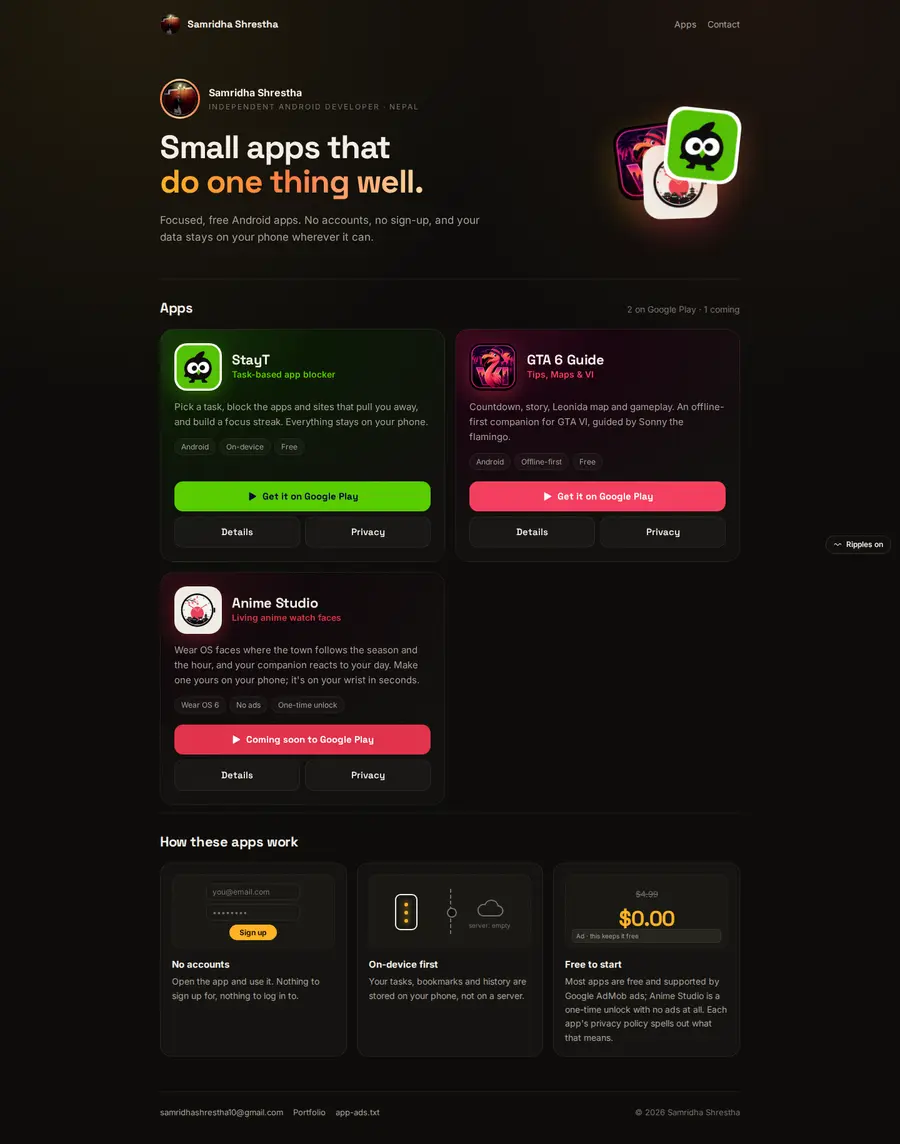
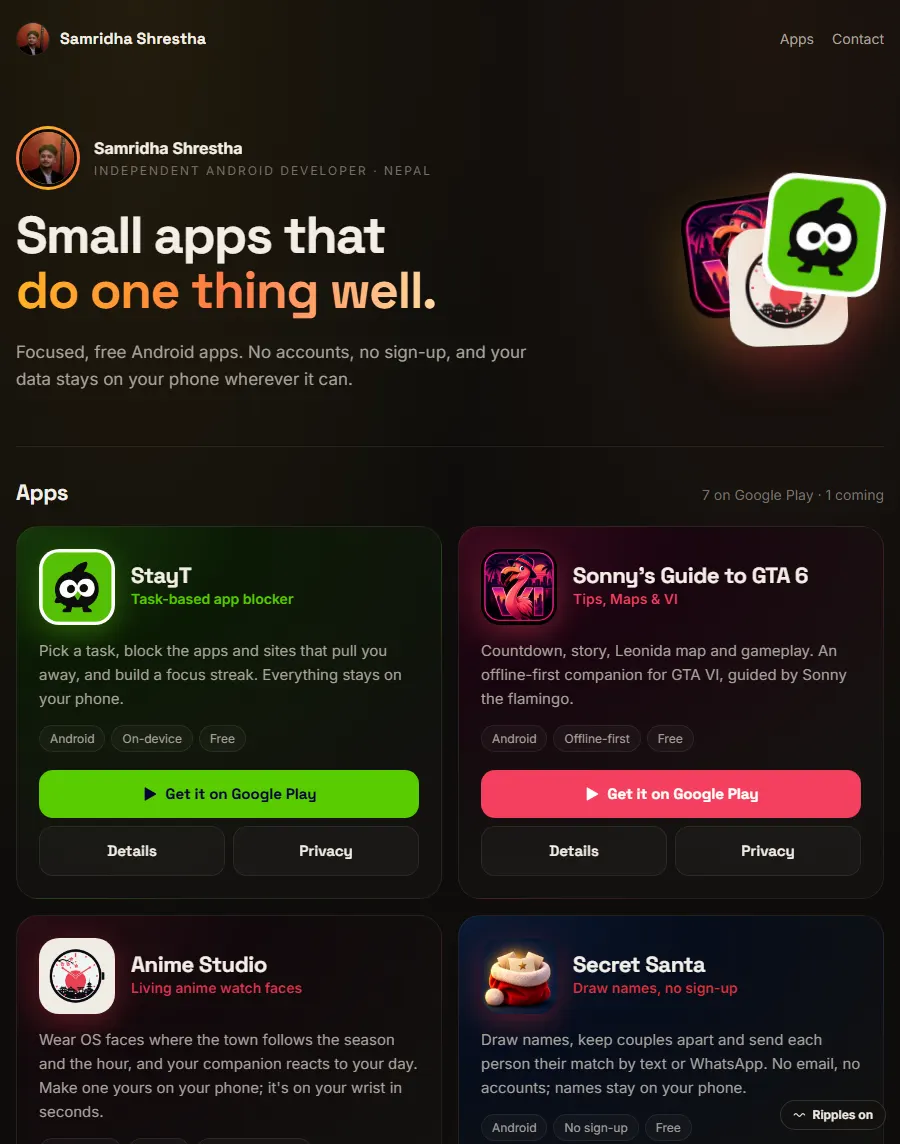
Projects: add Secret Santa, Potluck, Habit Tracker, Tide Chart and Word Search
Seven apps now on Google Play. New full-page thumbnails, refreshed hub
and Anime Studio shots, updated counts.

diff --git a/projects.html b/projects.html
@@ -72,9 +72,9 @@
 
     <section class="wrap" style="padding:0 0 2rem">
       <div class="numbers" data-reveal>
-        <div><b data-count="15">15</b><span>projects here</span></div>
+        <div><b data-count="20">20</b><span>projects here</span></div>
         <div><b data-count="96.97" data-decimals="2">96.97</b><span>best model accuracy, %</span></div>
-        <div><b data-count="7">7</b><span>sites and apps live</span></div>
+        <div><b data-count="11">11</b><span>sites and apps live</span></div>
         <div><b data-count="4">4</b><span>years of building, 2023–2026</span></div>
       </div>
     </section>
@@ -112,8 +112,8 @@
           <article>
             <span class="label">Android apps · 2026</span>
             <h3>apps.samridhashrestha.com.np</h3>
-            <p>Small Android apps that do one thing well. StayT, GTA 6 Guide and Anime Studio, a Wear OS watch face, are on Google Play. No accounts, data stays on the phone.</p>
-            <div class="metrics"><div><b>3</b><span>on Google Play</span></div></div>
+            <p>Small Android apps that do one thing well. Seven are on Google Play: StayT, GTA 6 Guide, Anime Studio (a Wear OS watch face), Secret Santa, Potluck Planner, Habit Tracker and Tide Chart. Big Letter Word Search is next. No accounts, data stays on the phone.</p>
+            <div class="metrics"><div><b>7</b><span>on Google Play</span></div></div>
             <a class="text-link arrow" href="https://apps.samridhashrestha.com.np" target="_blank" rel="noopener">See the apps</a>
           </article>
         </div>
@@ -151,7 +151,7 @@
           <div class="mobile-copy">
             <span class="label" style="margin:0">Android apps · 2026</span>
             <h3>apps.samridhashrestha.com.np</h3>
-            <p>Small Android apps that do one thing well. StayT, GTA 6 Guide and Anime Studio are on Google Play.</p>
+            <p>Small Android apps that do one thing well. Seven apps on Google Play, from StayT to Tide Chart, with Word Search next.</p>
             <a class="text-link arrow" href="https://apps.samridhashrestha.com.np" target="_blank" rel="noopener">See the apps</a>
           </div>
         </div>
@@ -176,11 +176,16 @@
         <li data-cat="app"><a class="proj-card panel" href="https://apps.samridhashrestha.com.np/stayt/" target="_blank" rel="noopener"><div class="proj-thumb scroll" style="--dur:4s"><img src="images/full-stayt.webp" alt="" loading="lazy" decoding="async"></div><div class="proj-body"><span class="proj-kind">Android · 2026</span><h3>StayT</h3><p>A task-based app blocker for staying focused. On Google Play.</p><span class="proj-foot"><span class="num">07</span><span class="go">Details ↗</span></span></div></a></li>
         <li data-cat="app"><a class="proj-card panel" href="https://apps.samridhashrestha.com.np/gta6guide/" target="_blank" rel="noopener"><div class="proj-thumb scroll" style="--dur:4s"><img src="images/full-gta6guide.webp" alt="" loading="lazy" decoding="async"></div><div class="proj-body"><span class="proj-kind">Android · 2026</span><h3>GTA 6 Guide</h3><p>An offline-first companion for GTA VI: countdown, story, Leonida map and gameplay. On Google Play.</p><span class="proj-foot"><span class="num">08</span><span class="go">Details ↗</span></span></div></a></li>
         <li data-cat="app"><a class="proj-card panel" href="https://apps.samridhashrestha.com.np/animestudio/" target="_blank" rel="noopener"><div class="proj-thumb scroll" style="--dur:6s"><img src="images/full-animestudio.webp" alt="" loading="lazy" decoding="async"></div><div class="proj-body"><span class="proj-kind">Wear OS · 2026</span><h3>Anime Studio</h3><p>Living anime watch faces: the town follows the season and the hour. On Google Play.</p><span class="proj-foot"><span class="num">09</span><span class="go">Details ↗</span></span></div></a></li>
-        <li data-cat="web"><a class="proj-card panel" href="https://nitride27.github.io/cargo-website/" target="_blank" rel="noopener"><div class="proj-thumb scroll" style="--dur:8s"><img src="images/full-cargo.webp" alt="" loading="lazy" decoding="async"></div><div class="proj-body"><span class="proj-kind">Web · Next.js · 2026</span><h3>CargoFlow</h3><p>Logistics marketing site on Next.js 15, Tailwind v4 and GSAP ScrollTrigger.</p><span class="proj-foot"><span class="num">10</span><span class="go">Live site ↗</span></span></div></a><a class="proj-code" href="https://github.com/Nitride27/cargo-website" target="_blank" rel="noopener">Code ↗</a></li>
-        <li data-cat="web"><a class="proj-card panel" href="https://nitride27.github.io/beautyinstitute-website/" target="_blank" rel="noopener"><div class="proj-thumb scroll" style="--dur:7s"><img src="images/full-eclat.webp" alt="" loading="lazy" decoding="async"></div><div class="proj-body"><span class="proj-kind">Web · Next.js · 2026</span><h3>Éclat Beauty Institute</h3><p>Marketing and enrolment site on Next.js 15, Tailwind, GSAP and Framer Motion.</p><span class="proj-foot"><span class="num">11</span><span class="go">Live site ↗</span></span></div></a><a class="proj-code" href="https://github.com/Nitride27/beautyinstitute-website" target="_blank" rel="noopener">Code ↗</a></li>
-        <li data-cat="web"><a class="proj-card panel" href="https://nitride27.github.io/fathers-day/" target="_blank" rel="noopener"><div class="proj-thumb scroll" style="--dur:10s"><img src="images/full-fathers.webp" alt="" loading="lazy" decoding="async"></div><div class="proj-body"><span class="proj-kind">Web · Next.js · 2026</span><h3>BUWA. Father's Day</h3><p>A warm, editorial scrollytelling site for Kushe Aunsi, Nepal's Father's Day. Static export on GitHub Pages.</p><span class="proj-foot"><span class="num">12</span><span class="go">Live site ↗</span></span></div></a><a class="proj-code" href="https://github.com/Nitride27/fathers-day" target="_blank" rel="noopener">Code ↗</a></li>
-        <li data-cat="game"><a class="proj-card panel" href="https://github.com/Nitride27/Fighting-game" target="_blank" rel="noopener"><div class="proj-thumb"><img src="images/fighting_game.webp" alt="" loading="lazy" decoding="async"></div><div class="proj-body"><span class="proj-kind">Game · Pygame · 2023</span><h3>Fighting game</h3><p>A Tekken-style fighter with animations, collision detection and responsive controls.</p><span class="proj-foot"><span class="num">13</span><span class="go">GitHub ↗</span></span></div></a></li>
-        <li data-cat="game"><a class="proj-card panel" href="https://github.com/Nitride27/Blackhole-Simulation" target="_blank" rel="noopener"><div class="proj-thumb bh" data-blackhole><img src="images/blackhole.webp" alt="" loading="lazy" decoding="async"><canvas aria-hidden="true"></canvas><small>Hover to run the simulation</small></div><div class="proj-body"><span class="proj-kind">Sim · Pygame · 2024</span><h3>Black hole simulation</h3><p>Particles fall under a point mass and get swallowed at the horizon. Hover the card (or scroll to it on a phone) to run the same physics live.</p><span class="proj-foot"><span class="num">14</span><span class="go">GitHub ↗</span></span></div></a></li>
+        <li data-cat="app"><a class="proj-card panel" href="https://apps.samridhashrestha.com.np/secretsanta/" target="_blank" rel="noopener"><div class="proj-thumb scroll" style="--dur:6s"><img src="images/full-secretsanta.webp" alt="" loading="lazy" decoding="async"></div><div class="proj-body"><span class="proj-kind">Android · 2026</span><h3>Secret Santa</h3><p>Draw names, keep couples apart and send each match by text. No email, no sign-up. On Google Play.</p><span class="proj-foot"><span class="num">10</span><span class="go">Details ↗</span></span></div></a></li>
+        <li data-cat="app"><a class="proj-card panel" href="https://apps.samridhashrestha.com.np/potluck/" target="_blank" rel="noopener"><div class="proj-thumb scroll" style="--dur:6s"><img src="images/full-potluck.webp" alt="" loading="lazy" decoding="async"></div><div class="proj-body"><span class="proj-kind">Android · 2026</span><h3>Potluck Planner</h3><p>A potluck sign-up sheet guests fill from one link on any phone. On Google Play.</p><span class="proj-foot"><span class="num">11</span><span class="go">Details ↗</span></span></div></a></li>
+        <li data-cat="app"><a class="proj-card panel" href="https://apps.samridhashrestha.com.np/resolutions/" target="_blank" rel="noopener"><div class="proj-thumb scroll" style="--dur:6s"><img src="images/full-resolutions.webp" alt="" loading="lazy" decoding="async"></div><div class="proj-body"><span class="proj-kind">Android · 2026</span><h3>Habit Tracker: Resolution 2027</h3><p>One-tap check-ins, forgiving streaks, reminders and a home-screen widget. On Google Play.</p><span class="proj-foot"><span class="num">12</span><span class="go">Details ↗</span></span></div></a></li>
+        <li data-cat="app"><a class="proj-card panel" href="https://apps.samridhashrestha.com.np/tides/" target="_blank" rel="noopener"><div class="proj-thumb scroll" style="--dur:6s"><img src="images/full-tides.webp" alt="" loading="lazy" decoding="async"></div><div class="proj-body"><span class="proj-kind">Android · 2026</span><h3>Tide Chart &amp; Fishing Times</h3><p>Tide times and fishing windows for 3,200 NOAA stations, calculated offline. On Google Play.</p><span class="proj-foot"><span class="num">13</span><span class="go">Details ↗</span></span></div></a></li>
+        <li data-cat="app"><a class="proj-card panel" href="https://apps.samridhashrestha.com.np/wordsearch/" target="_blank" rel="noopener"><div class="proj-thumb scroll" style="--dur:6s"><img src="images/full-wordsearch.webp" alt="" loading="lazy" decoding="async"></div><div class="proj-body"><span class="proj-kind">Android · 2026</span><h3>Big Letter Word Search</h3><p>A calm large-print word search with a daily puzzle and a Sunday criss-cross. Coming soon to Google Play.</p><span class="proj-foot"><span class="num">14</span><span class="go">Details ↗</span></span></div></a></li>
+        <li data-cat="web"><a class="proj-card panel" href="https://nitride27.github.io/cargo-website/" target="_blank" rel="noopener"><div class="proj-thumb scroll" style="--dur:8s"><img src="images/full-cargo.webp" alt="" loading="lazy" decoding="async"></div><div class="proj-body"><span class="proj-kind">Web · Next.js · 2026</span><h3>CargoFlow</h3><p>Logistics marketing site on Next.js 15, Tailwind v4 and GSAP ScrollTrigger.</p><span class="proj-foot"><span class="num">15</span><span class="go">Live site ↗</span></span></div></a><a class="proj-code" href="https://github.com/Nitride27/cargo-website" target="_blank" rel="noopener">Code ↗</a></li>
+        <li data-cat="web"><a class="proj-card panel" href="https://nitride27.github.io/beautyinstitute-website/" target="_blank" rel="noopener"><div class="proj-thumb scroll" style="--dur:7s"><img src="images/full-eclat.webp" alt="" loading="lazy" decoding="async"></div><div class="proj-body"><span class="proj-kind">Web · Next.js · 2026</span><h3>Éclat Beauty Institute</h3><p>Marketing and enrolment site on Next.js 15, Tailwind, GSAP and Framer Motion.</p><span class="proj-foot"><span class="num">16</span><span class="go">Live site ↗</span></span></div></a><a class="proj-code" href="https://github.com/Nitride27/beautyinstitute-website" target="_blank" rel="noopener">Code ↗</a></li>
+        <li data-cat="web"><a class="proj-card panel" href="https://nitride27.github.io/fathers-day/" target="_blank" rel="noopener"><div class="proj-thumb scroll" style="--dur:10s"><img src="images/full-fathers.webp" alt="" loading="lazy" decoding="async"></div><div class="proj-body"><span class="proj-kind">Web · Next.js · 2026</span><h3>BUWA. Father's Day</h3><p>A warm, editorial scrollytelling site for Kushe Aunsi, Nepal's Father's Day. Static export on GitHub Pages.</p><span class="proj-foot"><span class="num">17</span><span class="go">Live site ↗</span></span></div></a><a class="proj-code" href="https://github.com/Nitride27/fathers-day" target="_blank" rel="noopener">Code ↗</a></li>
+        <li data-cat="game"><a class="proj-card panel" href="https://github.com/Nitride27/Fighting-game" target="_blank" rel="noopener"><div class="proj-thumb"><img src="images/fighting_game.webp" alt="" loading="lazy" decoding="async"></div><div class="proj-body"><span class="proj-kind">Game · Pygame · 2023</span><h3>Fighting game</h3><p>A Tekken-style fighter with animations, collision detection and responsive controls.</p><span class="proj-foot"><span class="num">18</span><span class="go">GitHub ↗</span></span></div></a></li>
+        <li data-cat="game"><a class="proj-card panel" href="https://github.com/Nitride27/Blackhole-Simulation" target="_blank" rel="noopener"><div class="proj-thumb bh" data-blackhole><img src="images/blackhole.webp" alt="" loading="lazy" decoding="async"><canvas aria-hidden="true"></canvas><small>Hover to run the simulation</small></div><div class="proj-body"><span class="proj-kind">Sim · Pygame · 2024</span><h3>Black hole simulation</h3><p>Particles fall under a point mass and get swallowed at the horizon. Hover the card (or scroll to it on a phone) to run the same physics live.</p><span class="proj-foot"><span class="num">19</span><span class="go">GitHub ↗</span></span></div></a></li>
         <li data-cat="cpp" class="wide"><a class="proj-card panel" href="https://github.com/Nitride27/Contact_management_system" target="_blank" rel="noopener"><div class="proj-thumb termthumb" aria-hidden="true"><pre data-transcript>Contact Management
 1. Add Contact
 2. Search Contact
@@ -205,7 +210,7 @@ Contact Management
 3. Help
 4. Exit
 Enter your choice: 4
-Thank you. Hope to see you again!</pre></div><div class="proj-body"><span class="proj-kind">Tool · C++ · 2023</span><h3>Contact management system</h3><p>A console contact book with phone validation. The preview is a real session, compiled and run.</p><span class="proj-foot"><span class="num">15</span><span class="go">GitHub ↗</span></span></div></a></li>
+Thank you. Hope to see you again!</pre></div><div class="proj-body"><span class="proj-kind">Tool · C++ · 2023</span><h3>Contact management system</h3><p>A console contact book with phone validation. The preview is a real session, compiled and run.</p><span class="proj-foot"><span class="num">20</span><span class="go">GitHub ↗</span></span></div></a></li>
       </ul>
     </section>
 

diff --git a/index.html b/index.html
@@ -155,7 +155,7 @@
     </div>
     <p class="lede">Scroll to fly between the six planets, and click one to land.</p>
     <ul class="brief" aria-label="At a glance">
-      <li><b>15</b> projects</li><li><b>96.97%</b> best model</li><li><b>3</b> apps on Google Play</li>
+      <li><b>20</b> projects</li><li><b>96.97%</b> best model</li><li><b>7</b> apps on Google Play</li>
     </ul>
     <div class="welcome-cta">
       <button class="btn solid arrow begin" type="button">Begin flight</button>
